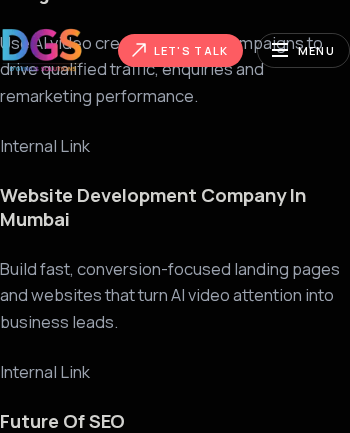
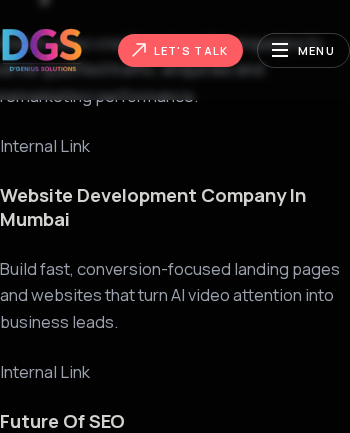
Add link-target corrections and destination health to ranking gate
Extend approved restorations with wordpressDestination, requiredNextDestination,
and B/F classifications. Website Development uses direct /services/website-development-amc/.
Validator applies B-class target corrections without mutating the frozen baseline and
blocks release on broken internal destinations (Google Ads CASE C STOP).

diff --git a/lib/migration/ranking-link-restorations.ts b/lib/migration/ranking-link-restorations.ts
@@ -3,7 +3,11 @@ import approved from "@/data/migration/ranking-link-restorations.approved.json";
 
 type Restoration = {
   headingId: string;
-  href: string;
+  anchor: string;
+  wordpressDestination: string;
+  requiredNextDestination: string;
+  classification?: string | null;
+  stopReason?: string;
 };
 
 const byPath = approved.restorations as Record<string, Restoration[]>;
@@ -12,7 +16,9 @@ export function applyRankingLinkRestorations(path: string, blocks: ContentBlock[
   const restorations = byPath[path];
   if (!restorations?.length) return blocks;
 
-  const hrefByHeadingId = new Map(restorations.map((item) => [item.headingId, item.href]));
+  const hrefByHeadingId = new Map(
+    restorations.map((item) => [item.headingId, item.requiredNextDestination]),
+  );
 
   return blocks.map((block) => {
     if (block.type !== "heading") return block;
